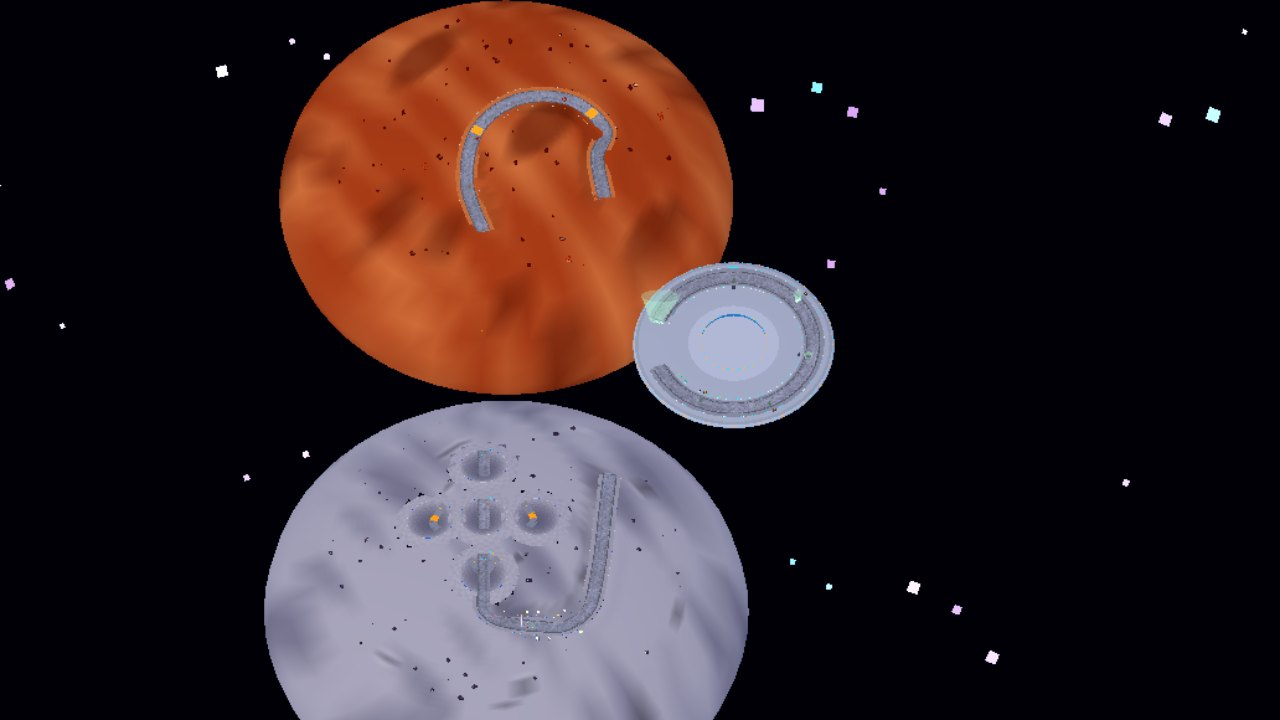
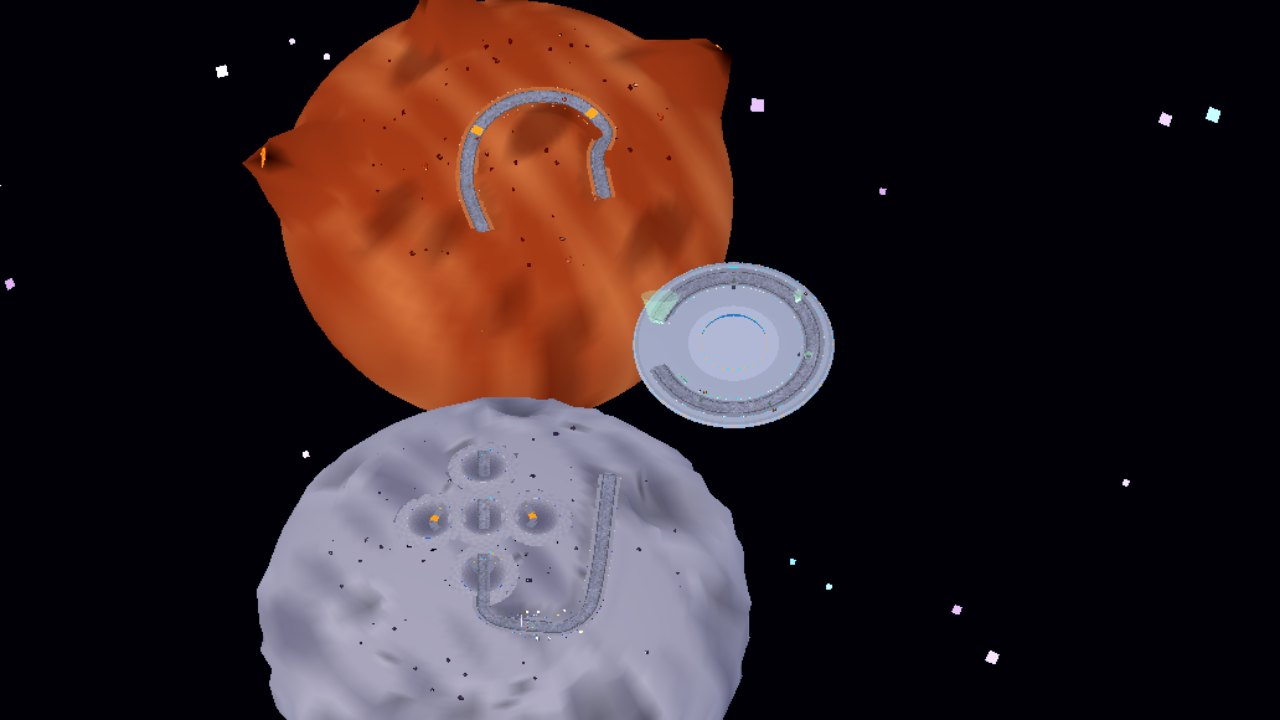
Cosmic Crossing: the space track's new name, and worlds that aren't perfect balls
Starliner Run is renamed Cosmic Crossing (the id stays 'starliner' so links
keep working). Each world is now round underneath; craters dent the moon
all over and three great volcanoes (and a small one by the road) rise from
the red planet with lava glowing in their calderas, so neither outline is a
perfect circle.

Claude-Session: https://claude.ai/code/session_01KfLUHNsrhXFzoqocSTpJTD

diff --git a/racing/web/loading.js b/racing/web/loading.js
@@ -2,7 +2,7 @@
 // with a lightweight, map-specific still; no extra game loop or WebGL work.
 ;(function () {
   'use strict'
-  var tracks = { meadow: 'Meadow Loop', mine: 'Mining Mountain', frost: 'Frosty Pass', funfair: 'Funfair Frenzy', windy: 'Windy City Circuit', starliner: 'Starliner Run' }
+  var tracks = { meadow: 'Meadow Loop', mine: 'Mining Mountain', frost: 'Frosty Pass', funfair: 'Funfair Frenzy', windy: 'Windy City Circuit', starliner: 'Cosmic Crossing' }
   var requested = new URLSearchParams(location.search).get('track')
   var track = Object.prototype.hasOwnProperty.call(tracks, requested) ? requested : 'meadow'
   var image = new URL('../tracks/aerial-' + track + '.jpg', location.href).href

diff --git a/lib/games/racing/rules.ts b/lib/games/racing/rules.ts
@@ -20,7 +20,7 @@ export const TRACKS = [
   { id: 'frost', name: 'Frosty Pass', laps: 3 },
   { id: 'funfair', name: 'Funfair Frenzy', laps: 2 },
   { id: 'windy', name: 'Windy City Circuit', laps: 2 },
-  { id: 'starliner', name: 'Starliner Run', laps: 2 },
+  { id: 'starliner', name: 'Cosmic Crossing', laps: 2 },
 ] as const
 export type TrackId = (typeof TRACKS)[number]['id']
 

diff --git a/docs/racing/DESIGN.md b/docs/racing/DESIGN.md
@@ -347,7 +347,7 @@ The first three tracks were the proof of concept. Series 2 adds three, each abou
 |---|---|---|---|
 | **Funfair Frenzy** (`?track=funfair`) | about 1,900 m, 71 to 92 s | Coaster lift hill with a launch gap (kart somersaults), boost strip, big wheel, a carousel that pushes karts round, haunted house with pop-ups, flume with slow water either side of a dry plank, bumper cars sweeping the arena, stalls and balloons | A jump ramp on the flume, a busier trackside, the Balloons item |
 | **Windy City Circuit** (`?track=windy`) | about 2,200 m, 84 to 112 s | Lakefront, ramp down to a dark lower street and garage with timed barrier arms, river bridge with gusts, an elevated train running overhead, a wind canyon between towers, fountain | The garage as a separate shortcut, a two-deck bridge choice, the Gust item |
-| **Starliner Run** (`?track=starliner`) | rebuilt 2026-11-17: see 8.6 | The moon's craters, the red planet, the flying saucer | See 8.6 |
+| **Cosmic Crossing** (`?track=starliner`; was Starliner Run) | rebuilt 2026-11-17: see 8.6 | The moon's craters, the red planet, the flying saucer | See 8.6 |
 
 - **Shared mechanics (built):** `LaunchGaps` (planned arcs), `TrackFx` (gravity, wind, drag and turning zones; timed jets and barriers; sweepers), all on the shared race clock so every player sees the same timing; `KitTools` (rooms with solid, glass, rail or open walls, props, buildings). Each is tested on the proving ground (`?track=proving`, not in the picker). A kart well below a Series 2 road is put back on it: their roads are raised over floors a kart can't climb from.
 - **Not built:** moving platforms, branching shortcuts on kit tracks, drawing only the section in view (not needed at these costs), named viewpoints for set pieces, and the three track items.
@@ -375,7 +375,7 @@ The first versions of the Series 2 tracks were roads with a few props. This is w
 - **How it is built:** `KitDress` (`scripts/track/kit_dress.gd`): corner arrows, gateways, bunting, edge lights, aprons, crowds that hop (one draw call a group), scattered props drawn only near the camera, and `Mover` for anything travelling a loop. Trackside props are packed to one vertex-coloured surface in Blender, so each kind is one draw call.
 - **Cost after the pass** (Low, the fixed viewpoints): at most 197 draw calls and 143k triangles, against 250 and 150k. The grid is the tightest view because eight karts are about 110k triangles by themselves; lowering that (14.1) is what would buy more scenery.
 
-### 8.6 Starliner Run rebuilt: two worlds and a flying saucer (Decided 2026-11-17)
+### 8.6 Cosmic Crossing (was Starliner Run): two worlds and a flying saucer (Decided 2026-11-17)
 The first Starliner Run (a starship's decks, flat with boxy details) was judged boring. The owner's brief: the lap runs across two planets and a flying saucer arranged in a triangle, joined by jumps through space, with jumps on Mario Kart's rules.
 
 **Jump rules (all jumps on every track):**
@@ -394,7 +394,9 @@ The first Starliner Run (a starship's decks, flat with boxy details) was judged 
 - **Why squashed balls:** gravity points down on every track. Each world is a ball half as tall as it is wide, so the road keeps to its gentle top; a true ball the size of the crater field would put the jumps between worlds 600 m apart or more. The jumps are 270 to 385 m, flown at about 60 to 70 m/s: four to six seconds under a glider.
 - **Built:** `scripts/track/starliner_track.gd` (layout, jumps, lips, vents), `scripts/track/space_worlds.gd` (worlds, craters, ramps, shoulders, saucer, scenery), LaunchGaps pads (lips on a bowl's rim), Track `free_zones` (craters) and `view_far` (the camera sees 2,600 m here), TrackFx `blow` hazards. Models: glider, dust devil, rust rocks.
 - **Cost:** at most 133 draw calls and 147k triangles at the fixed views (budgets 250 and 150k). Not yet measured on a phone.
-- **Not built:** the Tractor beam item; the name still says Starliner (owner to choose).
+- **Shape:** each world is round underneath and flattened on top where the road runs. Craters dent the moon all over and three great volcanoes (and a small one by the road) rise from the red planet, with lava glowing in their calderas, so neither outline is a perfect circle (the owner's request).
+- **Name:** Cosmic Crossing (the owner's choice); the track id stays `starliner` so links keep working.
+- **Not built:** the Tractor beam item.
 
 ## 9. Characters and art style
 
@@ -1079,7 +1081,7 @@ Settled since the first list: the launch drivers (fox, frog, rhino, deer), showi
 | 2026-11-13 | Frosty Pass ice in short patches (three 10 m patches per hairpin), not 77 m sheets | The user: long ice was very hard to drive over |
 | 2026-11-13 | Sand gun (Frosty Pass item): 5 s weaving spray, sand cancels ice for 8 s, for everyone | The user's idea, and its S shape and 5 to 10 s life |
 | 2026-11-14 | Honey, tumbleweed and snowball rebuilt in Blender, one mesh each, shaded like the karts | Matching the new style; the tumbleweed was 6 draw calls, now 1 |
-| 2026-11-17 | Starliner Run rebuilt as a moon, a red planet and a flying saucer joined by jumps; Mario Kart jump rules on every track (no skill needed, optional trick boost, fall only if hit in the air) | The owner: the starship was boring (8.6) |
+| 2026-11-17 | Starliner Run rebuilt (renamed Cosmic Crossing) as a moon, a red planet and a flying saucer joined by jumps; Mario Kart jump rules on every track (no skill needed, optional trick boost, fall only if hit in the air) | The owner: the starship was boring (8.6) |
 | 2026-11-14 | Series 2: Funfair Frenzy, Windy City Circuit (daytime, dark underground levels), Starliner Run; the Skyline Cup; own art direction; iPhone 15 Pro at Medium as the target | The user: the first three were a proof of concept; longer tracks, new themes, performance first |
 
 Frost lake exit: banking and its centre-line lift ease back in over 60 m after
